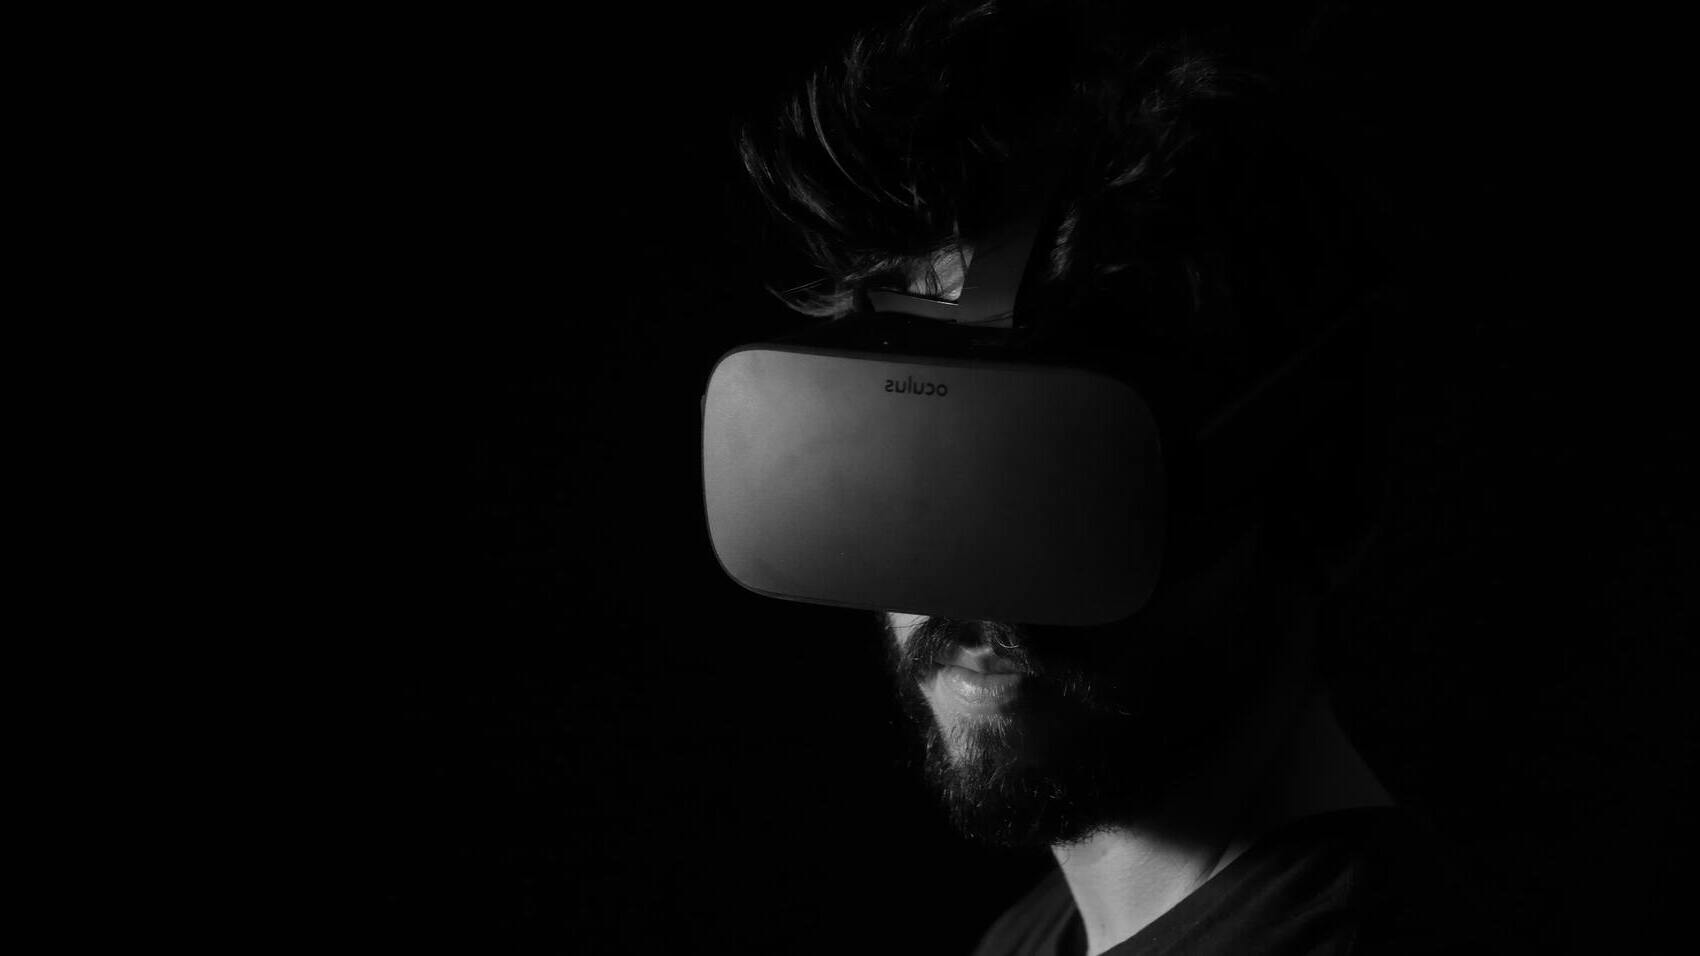
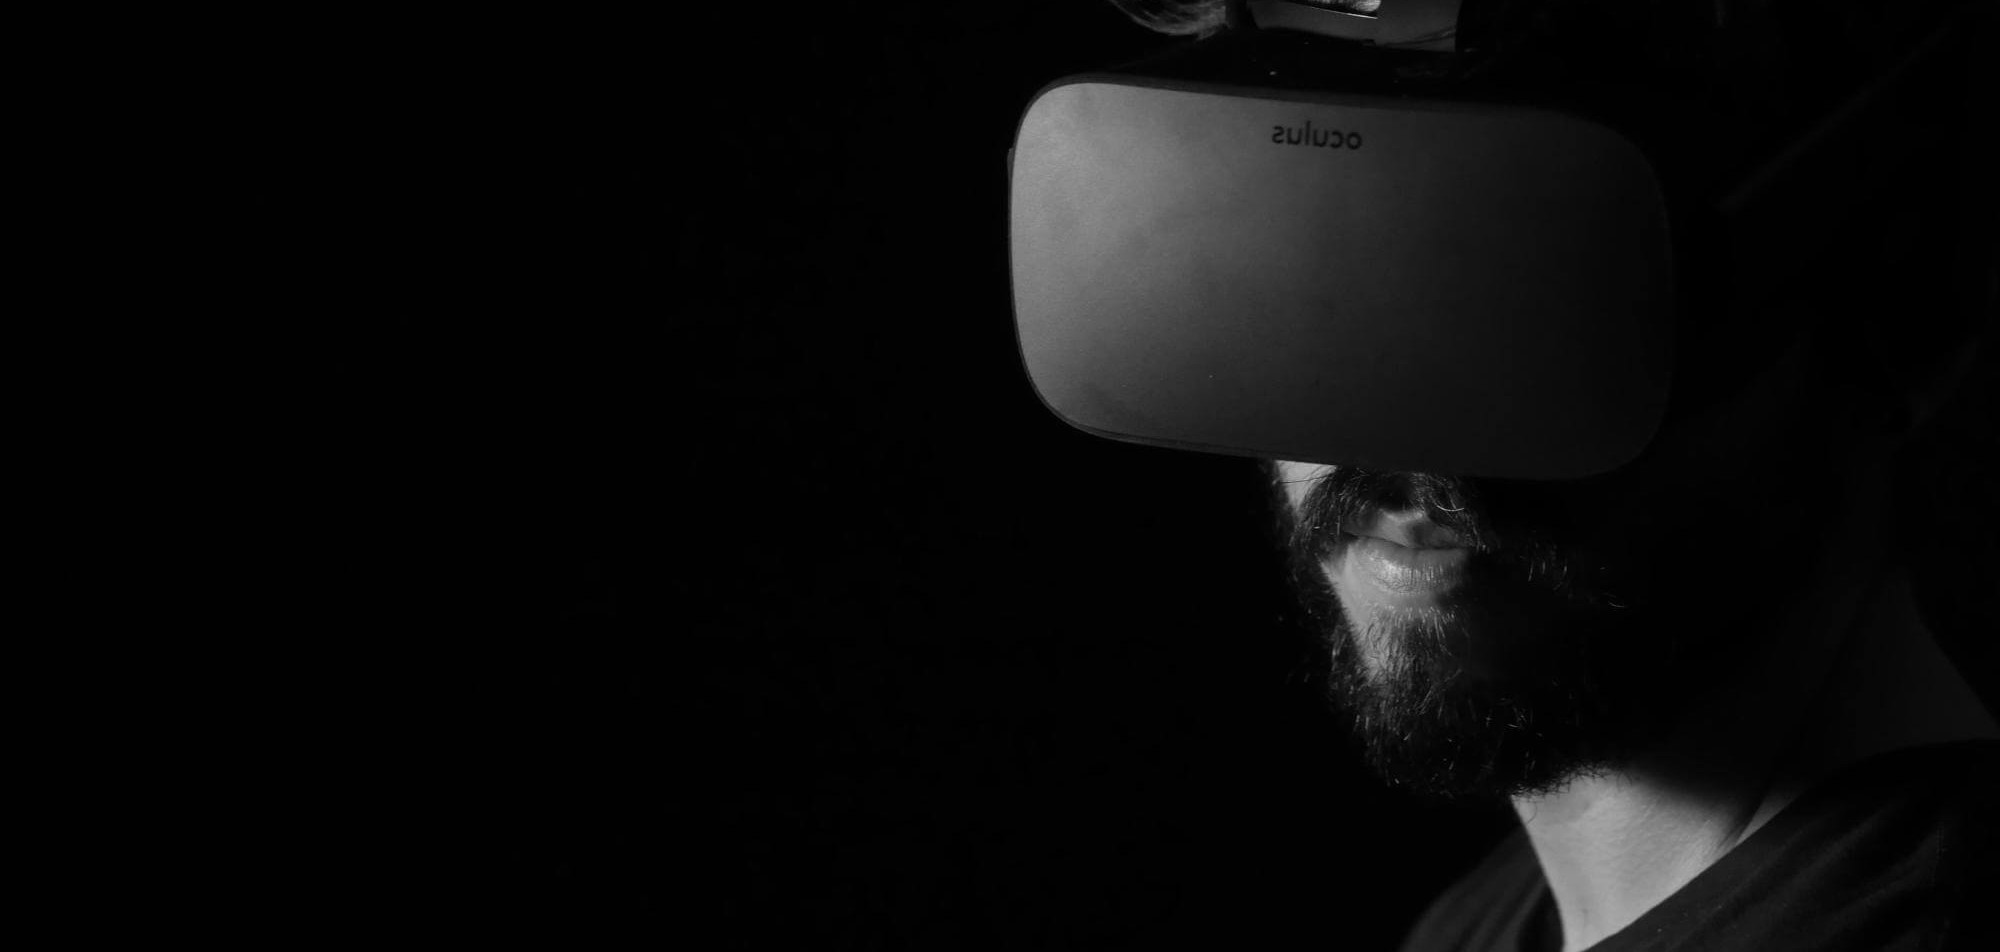
Some optimization on carousel img

diff --git a/index.html b/index.html
@@ -21,7 +21,7 @@
     <nav class="navbar fixed-top navbar-expand-lg navbar-dark bg-dark">
         <div class="container-fluid">
             <a class="navbar-brand" href="#">
-                <img src="img/logo-min.png" width="100" height="auto">
+                <img src="img/logo.png" width="100" height="auto">
             </a>
             <button class="navbar-toggler" type="button" data-bs-toggle="collapse" data-bs-target="#noukooNavbar"
                 aria-controls="noukooNavbar" aria-expanded="false" aria-label="Toggle navigation">
@@ -49,12 +49,18 @@
         </div>
         <div class="carousel-inner">
             <div class="carousel-item active">
-                <img src="img/carousel/carousel1.jpg" class="d-block w-100" alt="...">
+                <picture class="d-block w-100">
+                    <source media="(max-width: 768px)" srcset="img/carousel/carousel1-md.jpg">
+                    <img src="img/carousel/carousel1.jpg" alt="...">
+                </picture>
                 <div class="carousel-legend scale-in-top"><span>Laissez-vous embarquer</span><br>dans des visites
                     virtuelles totalement inedites</div>
             </div>
             <div class="carousel-item">
-                <img src="img/carousel/carousel2.jpg" class="d-block w-100" alt="...">
+                <picture class="d-block w-100">
+                    <source media="(max-width: 768px)" srcset="img/carousel/carousel2-md.jpg">
+                    <img src="img/carousel/carousel2.jpg" alt="...">
+                </picture>
                 <div class="carousel-legend scale-in-top"><span>Laissez-nous faire rever vos clients</span><br>a travers
                     des experiences inoubliables</div>
             </div>
@@ -82,7 +88,7 @@
         </div>
     </section>
 
-    <!-- 360 Gallery -->  
+    <!-- 360 Gallery -->
     <section id="gallery-360">
         <div class="title">
             <h2>Galerie 360</h2>
@@ -101,7 +107,8 @@
         </div>
         <div class="text">Grâce à nos visites virtuelles immersive (visites à 360°) vos clients auront le plaisir de
             découvrir l’intérieur et l’extérieur de votre établissement avant leur arrivée. Présenter votre espace sous
-            tous ses angles vous permet de booster votre visibilité en ligne tout en gagnant la confiance d’une clientèle plus large</div>
+            tous ses angles vous permet de booster votre visibilité en ligne tout en gagnant la confiance d’une
+            clientèle plus large</div>
     </section>
 
     <!-- Our specialities -->

diff --git a/styles/index_style.css b/styles/index_style.css
@@ -88,9 +88,13 @@ Navbar
 Carousel
 ***************************************************
 */
+#noukooCarousel {
+    margin-top: 70px;
+}
+
 #noukooCarousel,
 #noukooCarousel .carousel-item {
-    height: 90vh;
+    height: 80vh;
 }
 
 #noukooCarousel img {
@@ -392,10 +396,11 @@ Telephone
      */
     #noukooCarousel,
     #noukooCarousel .carousel-item {
-        height: 50vh;
+        height: 32vh;
     }
+
     .carousel-legend {
-        top: 8rem;
+        top: 2rem;
         left: 3rem;
         font-size: 20px;
     }
